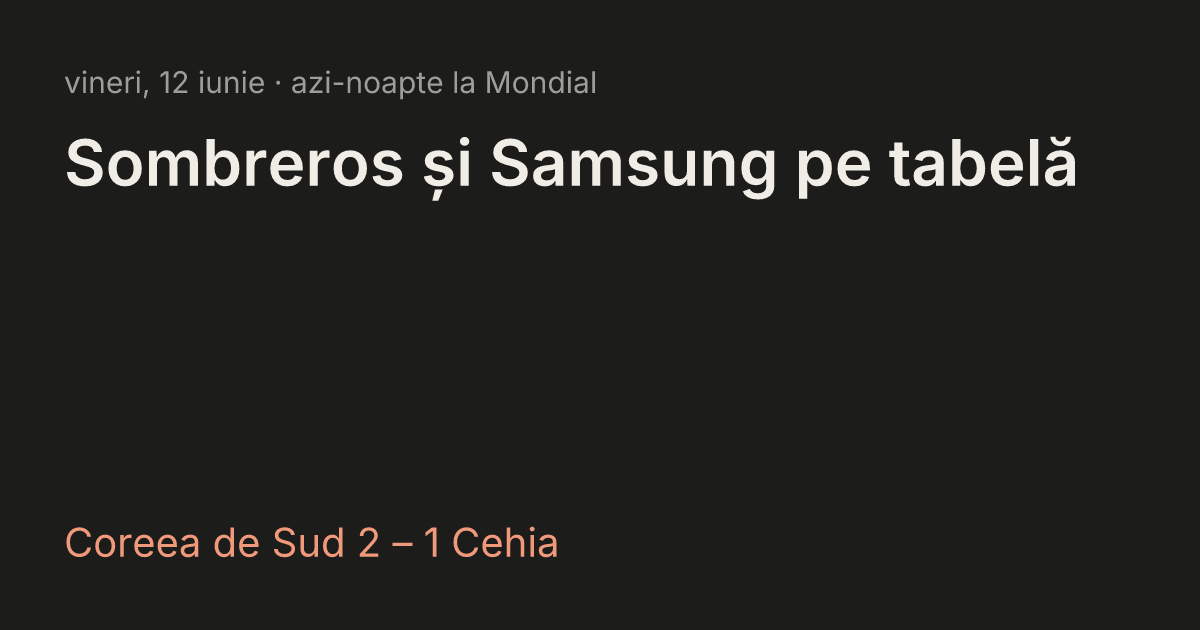
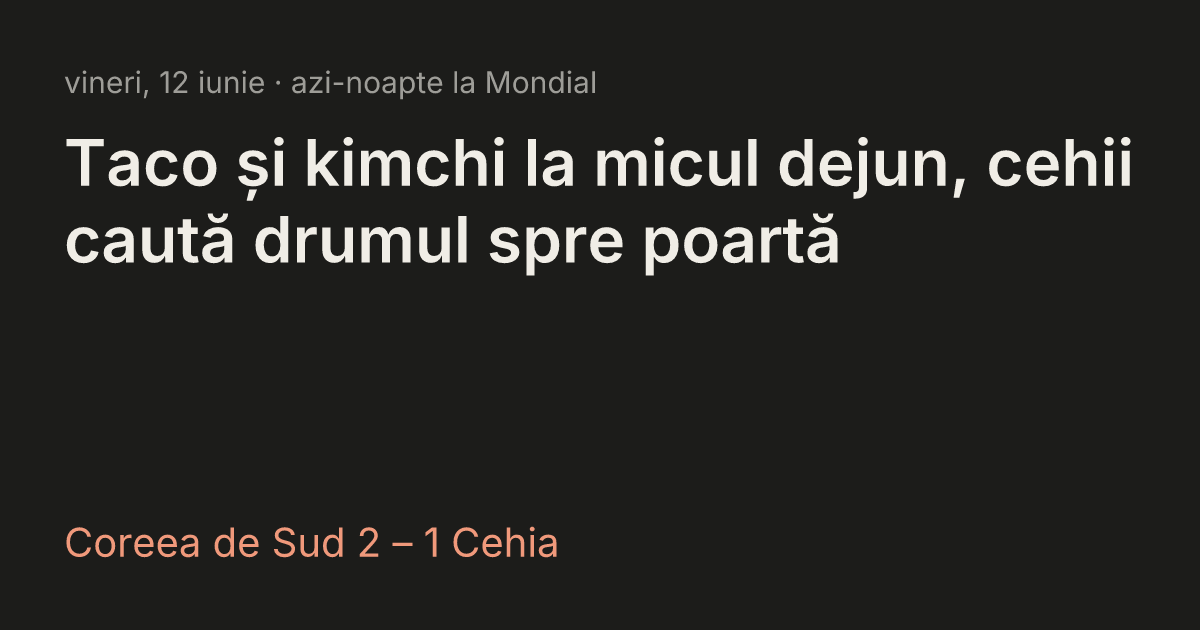
Feed recent digests into narration to stop repeated metaphors
The model has no memory across daily runs, so it recycled the same jokes
(e.g. 'brutarii' two mornings running). run.js now collects the prose from
the last 3 days' digests and narrate.js passes it to the model with an
instruction not to reuse the same metaphors, images, or headline shapes.
Regenerated 2026-06-12 with fresh angles.

Changed region(s): [[0.0308, 0.2111, 0.9558, 0.4524]]

diff --git a/pipeline/run.js b/pipeline/run.js
@@ -77,14 +77,41 @@ async function gatherFacts({ date, fixtures }) {
   return fetchDigestData({ digestDate: date, token });
 }
 
-async function getNarration(facts, { fixtures }) {
+async function getNarration(facts, { fixtures, recentProse }) {
   if (fixtures) {
     const cannedPath = path.join(fixtures, 'narration.json');
     if (existsSync(cannedPath)) return readJson(cannedPath);
   }
   const apiKey = process.env.GEMINI_API_KEY;
   if (!apiKey) throw new Error('GEMINI_API_KEY is not set');
-  return narrate(facts, { apiKey, model: process.env.GEMINI_MODEL || undefined });
+  return narrate(facts, {
+    apiKey,
+    model: process.env.GEMINI_MODEL || undefined,
+    recentProse,
+  });
+}
+
+/**
+ * Collects the prose (headline, summary, pills, tonight reasons) from the most
+ * recent per-day digests so narration can be told not to recycle the same jokes
+ * and metaphors. The model has no memory across daily runs on its own.
+ */
+async function recentProseBefore(date, days = 3) {
+  const files = (await readdir(DATA_DIR))
+    .filter((name) => /^\d{4}-\d{2}-\d{2}\.json$/.test(name))
+    .map((name) => name.replace('.json', ''))
+    .filter((d) => d < date)
+    .sort()
+    .slice(-days);
+
+  const prose = [];
+  for (const d of files) {
+    const digest = await readJson(path.join(DATA_DIR, `${d}.json`));
+    prose.push(digest.headline, digest.summary);
+    for (const m of digest.matches ?? []) prose.push(m.pill);
+    for (const t of digest.tonight ?? []) prose.push(t.why);
+  }
+  return prose.filter(Boolean);
 }
 
 /** Replaces the OG block in index.html between the og:start/og:end markers. */
@@ -117,9 +144,11 @@ async function main() {
   // Only groups that played last night get a snapshot on the page.
   const groupsThatPlayed = new Set(facts.finished.map((m) => m.group).filter(Boolean));
 
+  const recentProse = args.fixtures ? [] : await recentProseBefore(date);
+
   const narration = await getNarration(
     { date, finished: facts.finished, tonight: facts.tonight, standings },
-    { fixtures: args.fixtures },
+    { fixtures: args.fixtures, recentProse },
   );
 
   const narrationByMatch = new Map(narration.matches.map((m) => [m.id, m]));

diff --git a/pipeline/narrate.js b/pipeline/narrate.js
@@ -130,11 +130,27 @@ async function callGemini({ apiKey, model, userMessage }) {
 }
 
 /**
+ * Builds the user message: the day's facts, plus the previous days' prose so
+ * the model avoids recycling the same jokes and metaphors across digests.
+ */
+function buildUserMessage(facts, recentProse) {
+  const factsBlock = `FAPTELE DE AZI (JSON):\n${JSON.stringify(facts, null, 2)}`;
+  if (!recentProse?.length) return factsBlock;
+  const avoid = recentProse.map((line) => `- ${line}`).join('\n');
+  return `${factsBlock}
+
+TEXTE DIN ZILELE TRECUTE — NU le reutiliza. Evită aceleași glume, metafore și imagini
+(de ex. „brutarii", „masochism matinal", aceeași construcție de titlu). Caută unghiuri noi:
+${avoid}`;
+}
+
+/**
  * @param facts - { date, finished, tonight, standings } from the pipeline
+ * @param recentProse - prose lines from previous digests to avoid repeating
  * @returns validated narration { headline, summary, matches, tonight }
  */
-export async function narrate(facts, { apiKey, model = DEFAULT_MODEL } = {}) {
-  const userMessage = JSON.stringify(facts, null, 2);
+export async function narrate(facts, { apiKey, model = DEFAULT_MODEL, recentProse = [] } = {}) {
+  const userMessage = buildUserMessage(facts, recentProse);
 
   // Up to 4 attempts: covers transient API errors (429/5xx, with backoff)
   // and one retry for a response that fails JSON parsing or the schema.

diff --git a/site/index.html b/site/index.html
@@ -5,8 +5,8 @@
   <meta name="viewport" content="width=device-width, initial-scale=1.0" />
   <title>Mondialul de dimineață</title>
   <!-- og:start -->
-  <meta property="og:title" content="Sombreros și Samsung pe tabelă" />
-  <meta property="og:description" content="Mexic și Coreea de Sud și-au rezolvat meciurile, lăsând restul grupei să se lupte pentru supraviețuire. Africa de Sud și Cehia încep deja să simtă presiunea locului secund după o singură etapă." />
+  <meta property="og:title" content="Taco și kimchi la micul dejun, cehii caută drumul spre poartă" />
+  <meta property="og:description" content="Mexicul s-a instalat la șefia grupei după un 2-0 sec, în timp ce Coreea de Sud a lăsat Cehia cu golaveraj negativ. Cele două învingătoare au deja un avans de trei puncte în fața urmăritoarelor din Grupa A." />
   <meta property="og:image" content="https://mcandea04.github.io/mondial/data/og/2026-06-12.png" />
   <meta property="og:url" content="https://mcandea04.github.io/mondial/" />
   <meta property="og:type" content="website" />
